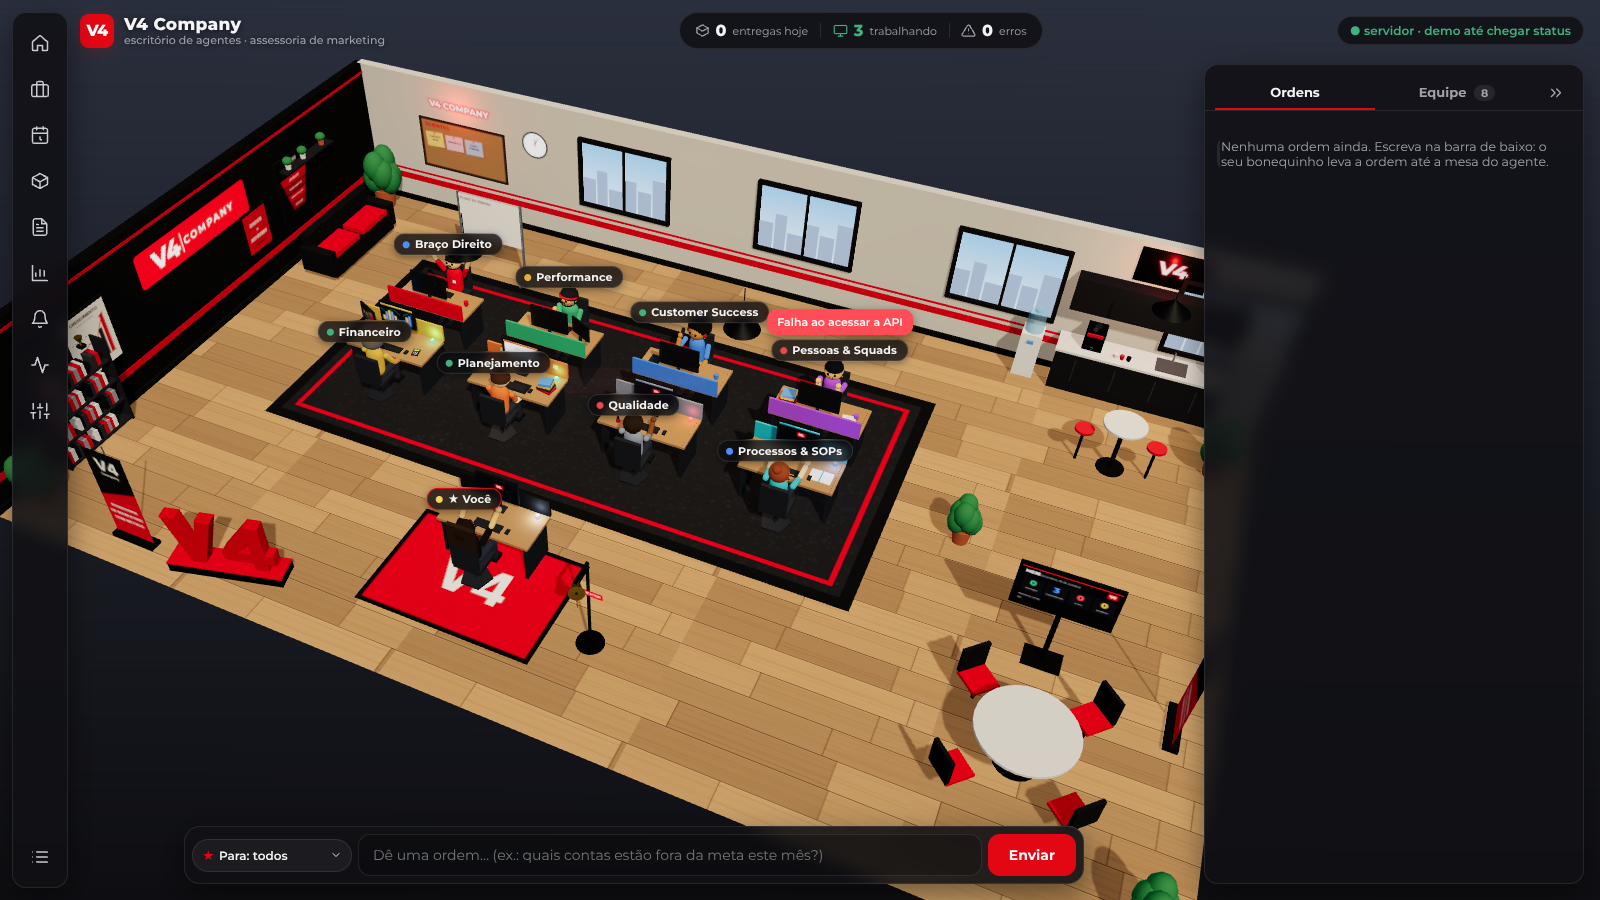
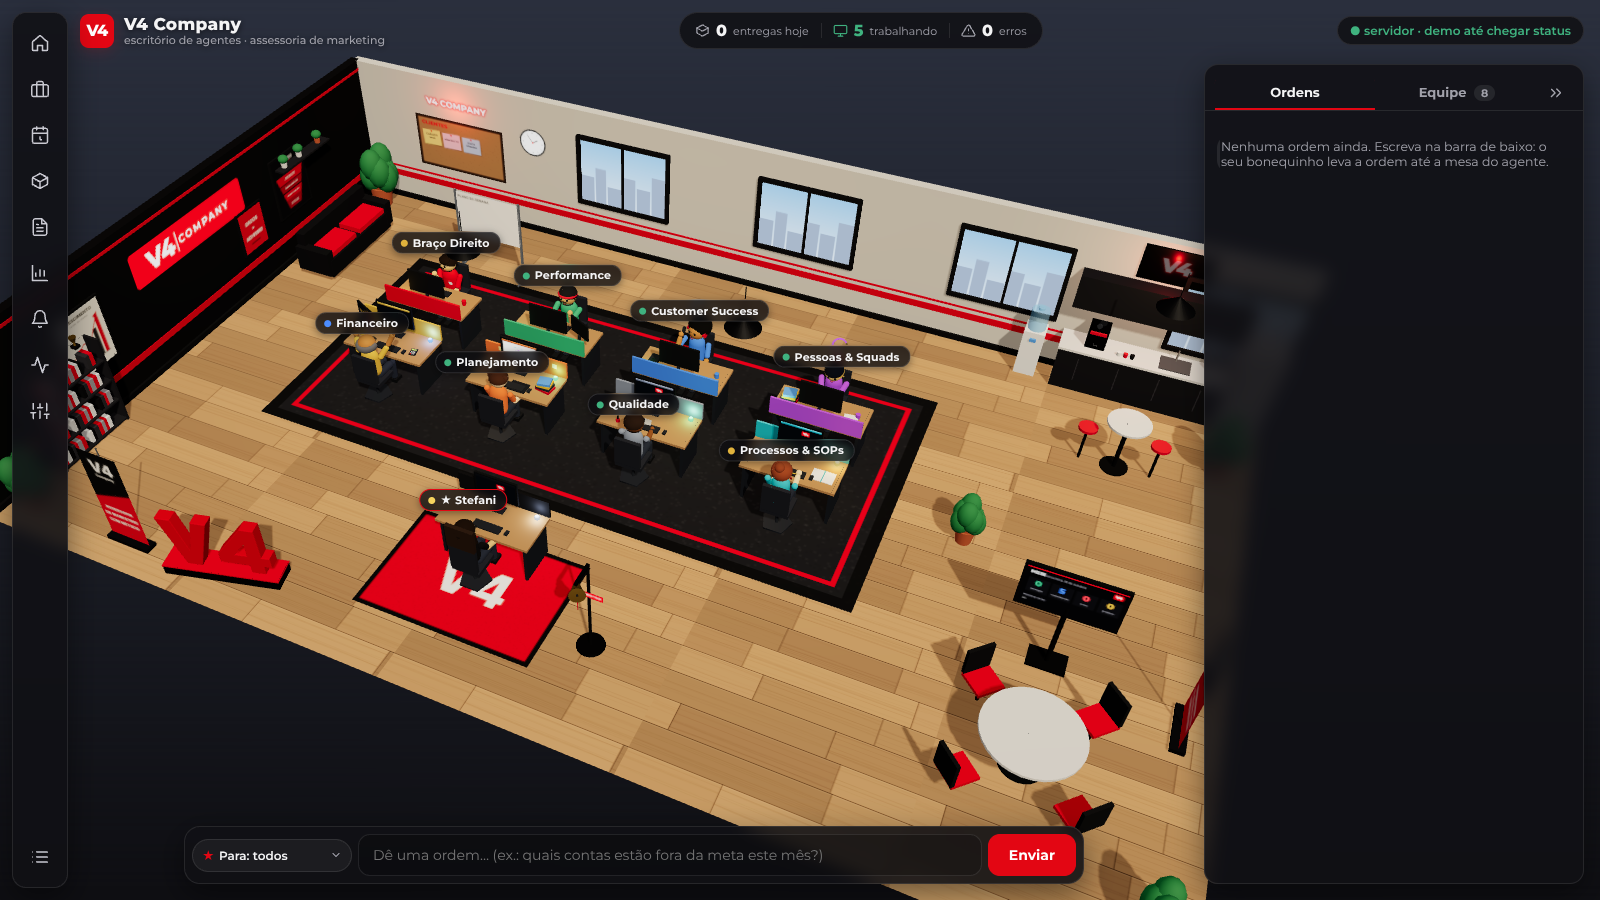
Chefe do escritório é a Stefani
O bonequinho da mesa da frente aparece como "★ Stefani" e as
instruções de todos os agentes dizem que eles apoiam a Stefani,
Head de Operações (também nos motores.*.json de exemplo).

Claude-Session: https://claude.ai/code/session_01MDV3uhL7GirF84K8xosser

diff --git a/motores/time-v4.js b/motores/time-v4.js
@@ -2,7 +2,7 @@
 // de uma unidade da V4 Company (ela é sócia da unidade). Cada agente tem função
 // (o Braço Direito e o Crânio leem isto para decidir quem faz o quê) e instruções (o papel).
 
-const BASE = 'Você faz parte do time de agentes que apoia a Head de Operações de Marketing de uma unidade da V4 Company, assessoria de marketing. Ela é sócia da unidade e responde pela entrega dos squads aos clientes: resultado das contas, retenção da carteira, qualidade, pessoas, processos e margem da operação. Responda em português, direto ao ponto, com entregas prontas para usar: tabelas, checklists, mensagens prontas para enviar e planos com dono, prazo e indicador. Pense como sócia: o que mexe no resultado do cliente, no churn, na capacidade do time e no caixa vem primeiro. Use só os dados que recebeu; quando um número for estimativa ou exemplo, diga isso. Quando faltar informação essencial, diga exatamente o que falta e siga com suposições explícitas.';
+const BASE = 'Você faz parte do time de agentes que apoia a Stefani, Head de Operações de Marketing de uma unidade da V4 Company, assessoria de marketing. Ela é sócia da unidade e responde pela entrega dos squads aos clientes: resultado das contas, retenção da carteira, qualidade, pessoas, processos e margem da operação. Responda em português, direto ao ponto, com entregas prontas para usar: tabelas, checklists, mensagens prontas para enviar e planos com dono, prazo e indicador. Pense como sócia: o que mexe no resultado do cliente, no churn, na capacidade do time e no caixa vem primeiro. Use só os dados que recebeu; quando um número for estimativa ou exemplo, diga isso. Quando faltar informação essencial, diga exatamente o que falta e siga com suposições explícitas.';
 
 export const TIME_V4 = {
   orquestrador: {

diff --git a/src/agentes.js b/src/agentes.js
@@ -23,8 +23,8 @@ export const AGENTES = [
   { id: 'documentador', nome: 'Processos & SOPs', funcao: 'Procedimentos, playbooks e atas',        atividade: 'digitar',  cor: '#2ec4d6', cabelo: '#a0522d', pele: '#ffdbac', estilo: 'coque', feminina: true, brinco: '#e30613' },
 ];
 
-// Você! A Head de Operações (sócia): o seu bonequinho fica na mesa da frente e leva as ordens até a equipe.
-export const CHEFE = { id: 'chefe', nome: 'Você', funcao: 'Head de Operações · Sócia', cor: '#18181b', cabelo: '#2b1d14', pele: '#f1c27d', estilo: 'longo', feminina: true, brinco: '#e30613' };
+// Stefani, a Head de Operações (sócia): o bonequinho dela fica na mesa da frente e leva as ordens até a equipe.
+export const CHEFE = { id: 'chefe', nome: 'Stefani', funcao: 'Head de Operações · Sócia', cor: '#18181b', cabelo: '#2b1d14', pele: '#f1c27d', estilo: 'longo', feminina: true, brinco: '#e30613' };
 
 // Estados aceitos e a cor de cada um.
 export const STATUS = {

diff --git a/README.md b/README.md
@@ -21,7 +21,7 @@ Tudo usa a cor da marca (`MARCA_COR`, padrão `#e30613`) e o nome (`MARCA_NOME`,
 
 ## O time
 
-Os agentes apoiam a **Head de Operações de Marketing** da unidade V4, que é sócia: ela dá as ordens (o bonequinho "Você", na mesa da frente) e o time cuida do resultado das contas, da carteira, das pessoas, da margem e dos processos.
+Os agentes apoiam a **Head de Operações de Marketing** da unidade V4, que é sócia: a **Stefani** dá as ordens (o bonequinho dela, "★ Stefani", fica na mesa da frente) e o time cuida do resultado das contas, da carteira, das pessoas, da margem e dos processos.
 
 | Agente | id | O que faz |
 |---|---|---|
@@ -187,7 +187,7 @@ As mesas são distribuídas sozinhas (8 por bloco); a sala cresce conforme a equ
 
 Com o servidor, a equipe é a do `motores.json`: para tirar alguém, use **Remover da equipe** no ⚙ Equipe (a mesa some na hora; as entregas antigas continuam no arquivo).
 
-O seu bonequinho é o `CHEFE`, no mesmo arquivo: troque `nome` (aparece como "★ Você"), cores, cabelo e pele.
+O seu bonequinho é o `CHEFE`, no mesmo arquivo: troque `nome` (aparece como "★ Stefani"), cores, cabelo e pele.
 
 ## Ligando as suas IAs (motores embutidos)
 
